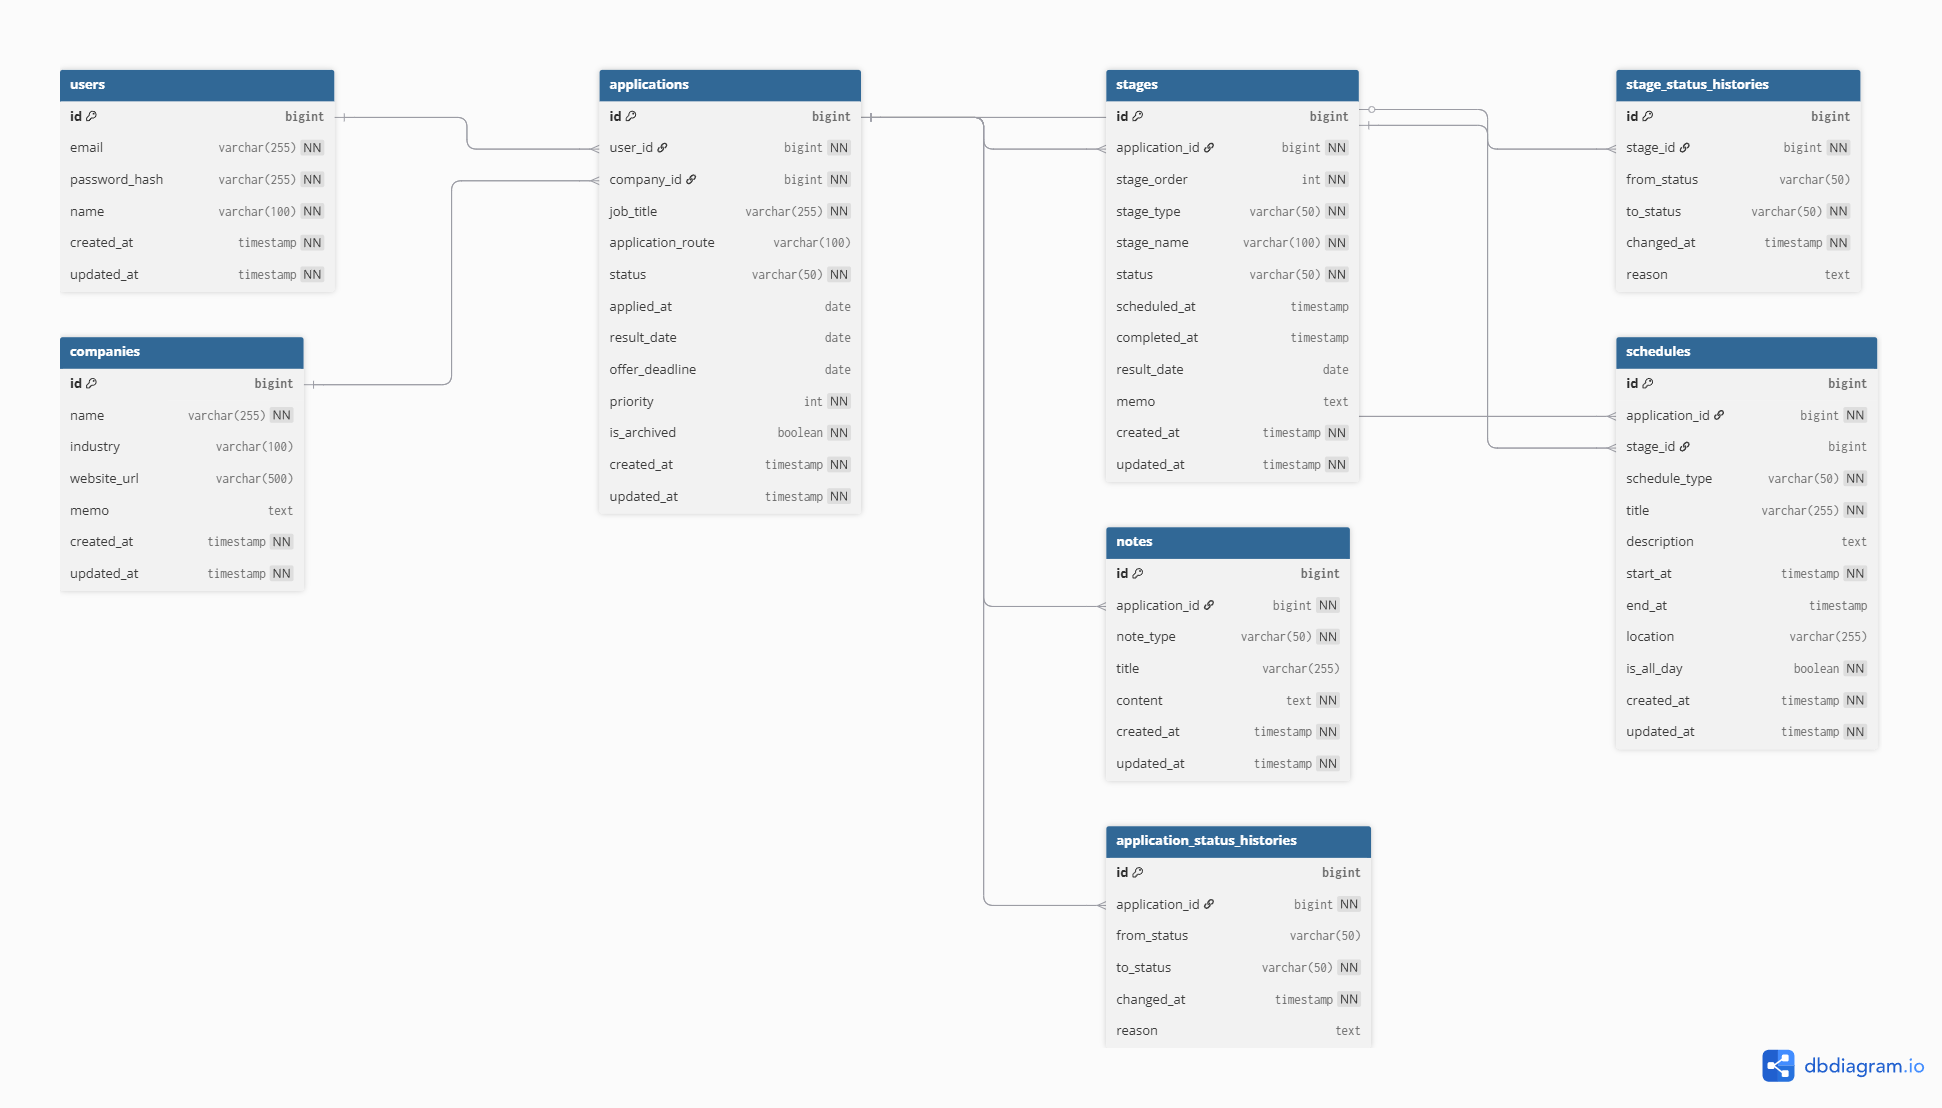
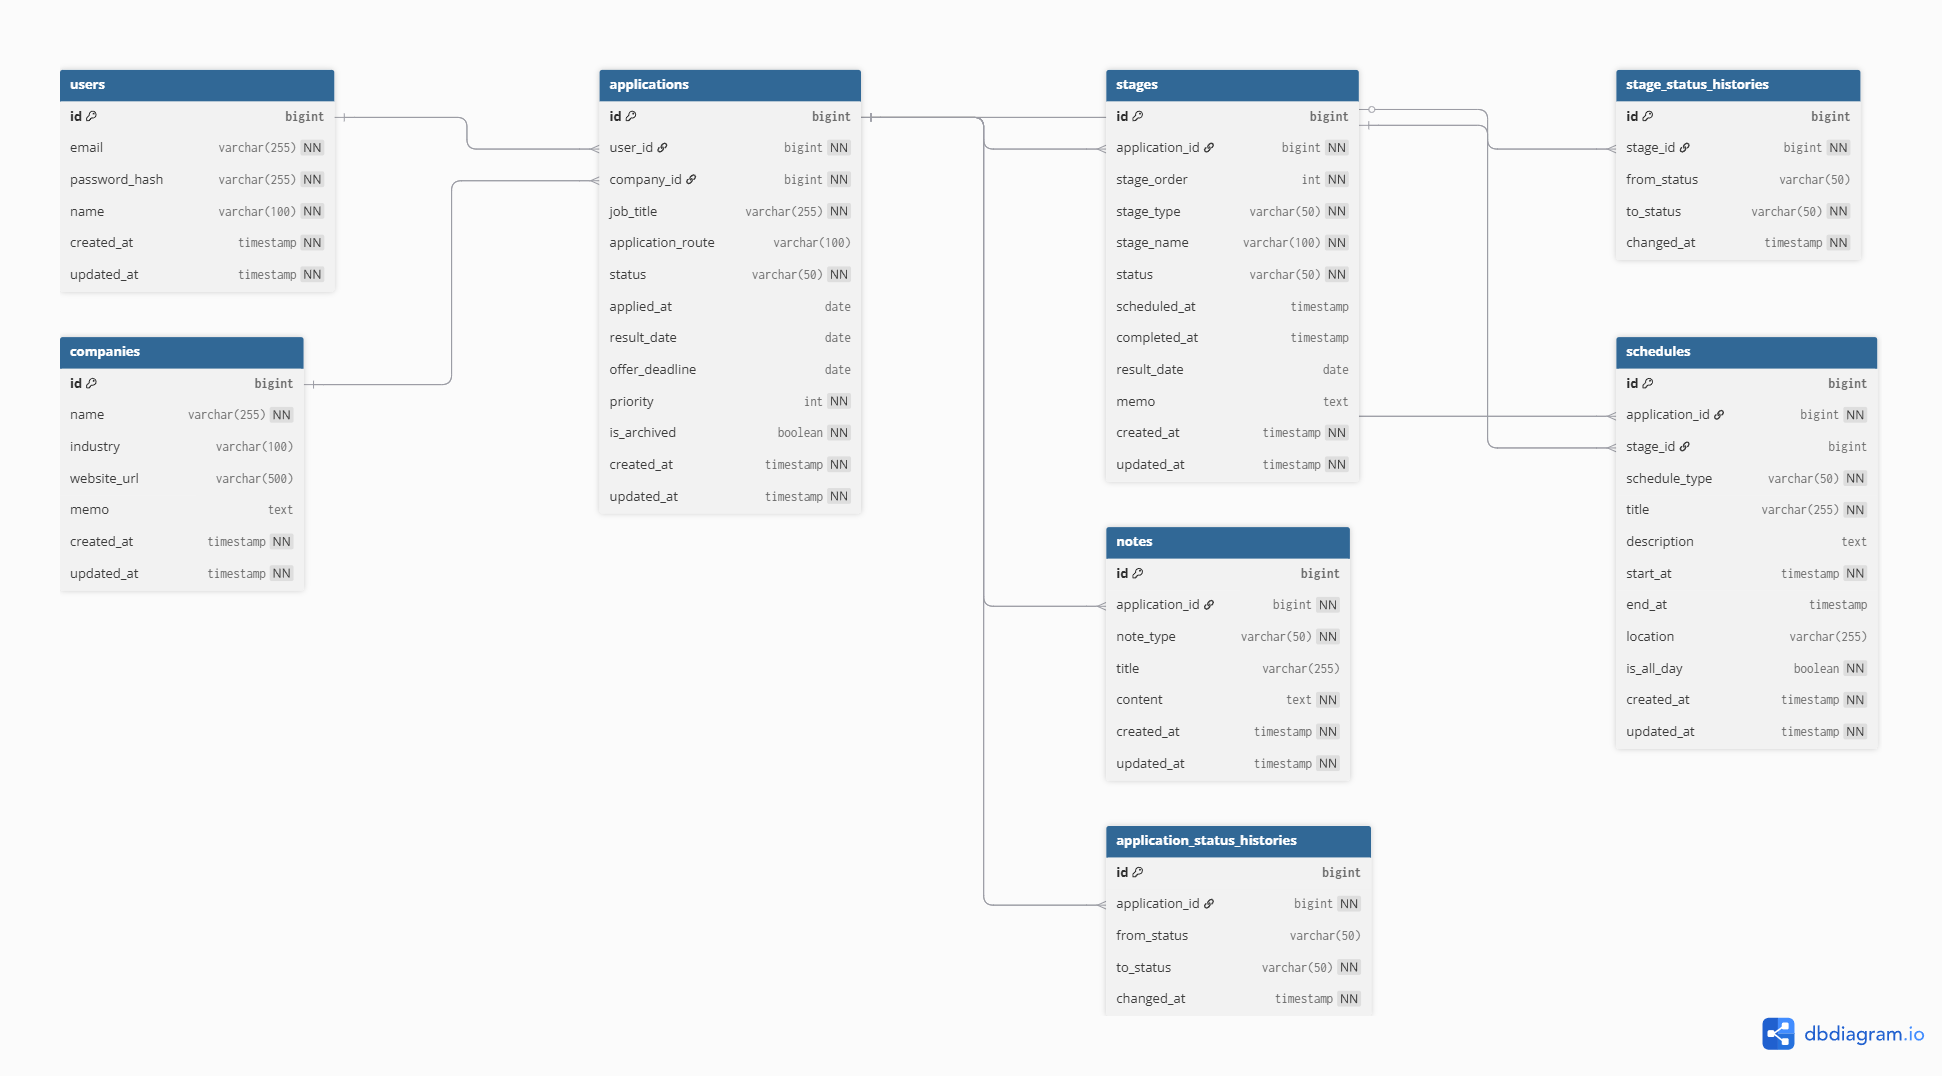
Add application status history entity and Fix ERD

diff --git a/src/main/kotlin/com/hyunwoo/jobselectiontracker/application/history/entity/ApplicationStatusHistory.kt b/src/main/kotlin/com/hyunwoo/jobselectiontracker/application/history/entity/ApplicationStatusHistory.kt
@@ -1,0 +1,59 @@
+package com.hyunwoo.jobselectiontracker.application.history.entity
+
+import com.hyunwoo.jobselectiontracker.application.entity.Application
+import com.hyunwoo.jobselectiontracker.application.entity.ApplicationStatus
+import jakarta.persistence.Column
+import jakarta.persistence.Entity
+import jakarta.persistence.EnumType
+import jakarta.persistence.Enumerated
+import jakarta.persistence.FetchType
+import jakarta.persistence.GeneratedValue
+import jakarta.persistence.GenerationType
+import jakarta.persistence.Id
+import jakarta.persistence.JoinColumn
+import jakarta.persistence.ManyToOne
+import jakarta.persistence.PrePersist
+import jakarta.persistence.Table
+import java.time.LocalDateTime
+
+/**
+ * 応募全体のステータス変更履歴を表すエンティティ。
+ * 現在状態そのものではなく、状態がどのように変化したかを記録する。
+ */
+@Entity
+@Table(name = "application_status_histories")
+class ApplicationStatusHistory(
+
+    /** 履歴の主キー。 */
+    @Id
+    @GeneratedValue(strategy = GenerationType.IDENTITY)
+    val id: Long? = null,
+
+    /** この履歴が属する応募情報。 */
+    @ManyToOne(fetch = FetchType.LAZY)
+    @JoinColumn(name = "application_id", nullable = false)
+    var application: Application,
+
+    /** 変更前の応募ステータス。初回変更時は null を許容する。 */
+    @Enumerated(EnumType.STRING)
+    @Column(name = "from_status", length = 50)
+    var fromStatus: ApplicationStatus? = null,
+
+    /** 変更後の応募ステータス。 */
+    @Enumerated(EnumType.STRING)
+    @Column(name = "to_status", nullable = false, length = 50)
+    var toStatus: ApplicationStatus,
+
+    /** ステータス変更が発生した日時。 */
+    @Column(name = "changed_at", nullable = false)
+    var changedAt: LocalDateTime? = null
+) {
+
+    /** 保存前に変更日時が未設定なら現在時刻を設定する。 */
+    @PrePersist
+    fun prePersist() {
+        if (changedAt == null) {
+            changedAt = LocalDateTime.now()
+        }
+    }
+}
